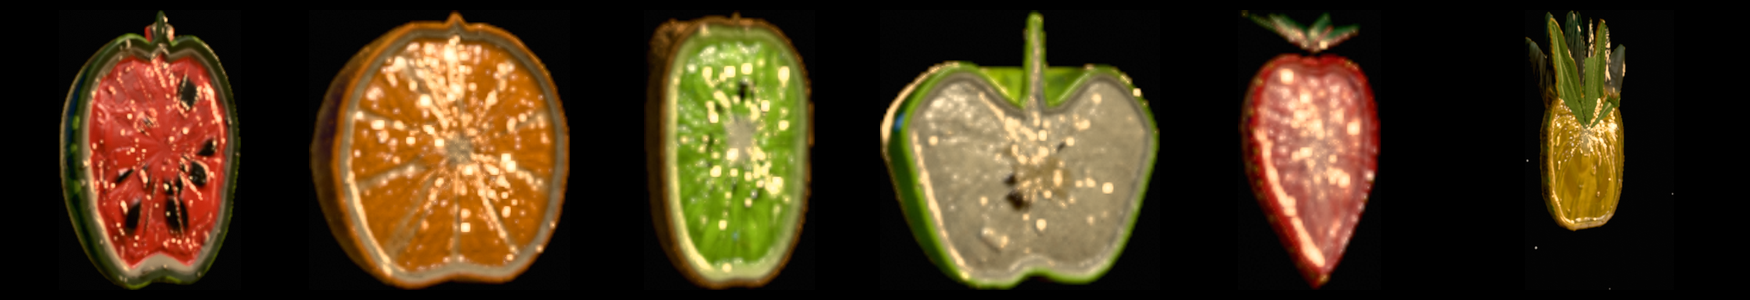
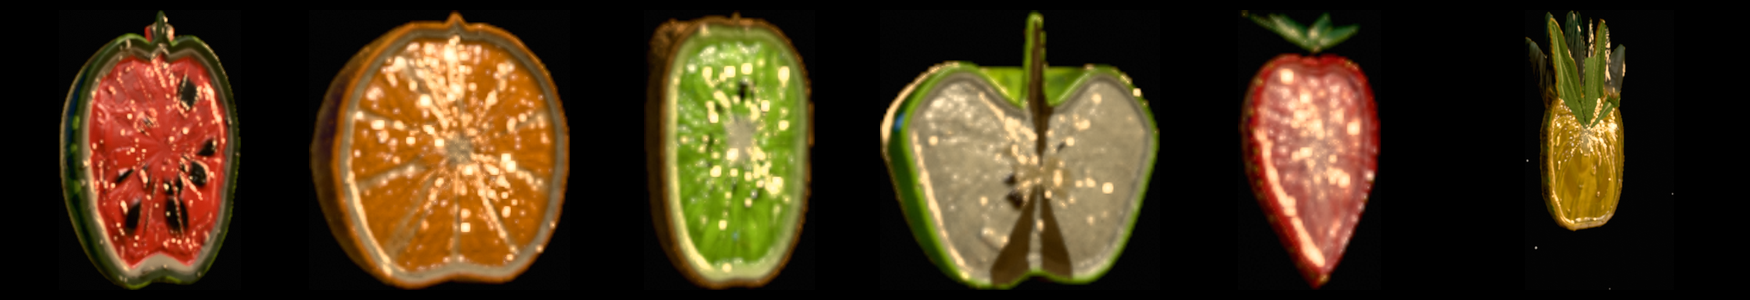
r37g: the stem and calyx cut brown/green, not flesh
Owner: slicing the apple stem showed a green flesh interior. The cutter's
r37b provenance flag already fires for it — profile stems live in the
wood uv band (1.75-1.95), far above the 1.02 threshold — the apple's
flesh material just never consumed the flag. It does now (dry hook + pale
dry-wood albedo, flattened relief, no sss), and the blossom-end's dried
calyx rosette lands brown for free, which a real apple half shows. The
strawberry gets the same consumption for its sepal cross-sections: fresh
calyx green root to tip (the r24 leafFresh law — no brown root, unlike
the pineapple).

Full fruitviews re-render + strips. Audioprobe green 3x, drawprobe green,
pointerprobe green.

Claude-Session: https://claude.ai/code/session_015nASdr9y6NnLpyGJ9ZZJpd

Changed region(s): [[0.5554, 0.6, 0.6171, 0.96], [0.5863, 0.09, 0.6171, 0.54], [0.7097, 0.09, 0.7714, 0.18]]

diff --git a/src/fruit/species.js b/src/fruit/species.js
@@ -3695,7 +3695,14 @@ def({
       const band = ss(0.13, 0.20, cc.rad).mul(ss(0.28, 0.36, cc.rad).oneMinus());
       return blob(c.d, 0.16, 0.30).mul(step(0.25, c.id)).mul(band).mul(cellFade(p)).toVar();
     };
+    // r37g — THE STEM CUT (same mechanism as the pineapple crown cut): a
+    // lengthwise slice runs through the stalk, and the cutter already flags
+    // those cap sectors (profile stems live in the wood uv band 1.75-1.95,
+    // far above the 1.02 provenance threshold). Consume the flag: a cut twig
+    // is pale dry wood, not green flesh.
+    const stemCut = () => step(8.0, uv().x);
     return fleshMaterial(this, {
+      dry: () => stemCut(),
       albedo: (cc, u) => {
         const { ang, rad, q } = cc;
         const gr = fbm2(q.mul(34.0), 3, u.detail).toVar();
@@ -3731,16 +3738,22 @@ def({
         alb.mulAssign(ss(0.800, 0.888, rad).mul(ss(0.888, 0.945, rad).oneMinus())
           .mul(0.40).oneMinus());
         alb.assign(mix(alb, vec3(0.1100, 0.2024, 0.0154).mul(kr), L.skin));
+        // the stalk's interior: pale dry wood with a hint of ring grain
+        const wood = vec3(0.0620, 0.0400, 0.0175)
+          .mul(fbm2(q.mul(22.0), 2, u.detail).mul(0.35).add(0.82)).toVar();
+        alb.assign(mix(alb, wood, stemCut()));
         return alb;
       },
       relief: (cc, u) => {
         const L = apLayers(cc);
         return fbm2(cc.q.mul(34.0), 3, u.detail).mul(0.6)
           .add(ringN(cc.ang, 16.0, cc.rad.mul(3.0).add(5.0)).mul(0.35))
-          .add(L.core.mul(0.5)).add(pips(cc).mul(1.0));
+          .add(L.core.mul(0.5)).add(pips(cc).mul(1.0))
+          .mul(stemCut().mul(0.8).oneMinus());
       },
       rough: (cc, u) => mix(u.rough, float(0.55), apLayers(cc).skin),
-      sssMask: (cc) => apLayers(cc).skin.oneMinus().mul(pips(cc).oneMinus()),
+      sssMask: (cc) => apLayers(cc).skin.oneMinus().mul(pips(cc).oneMinus())
+        .mul(stemCut().oneMinus()),
     }, { rough: 0.34, wet: 0.85, bump: 0.0196, floor: [0.1000, 0.0940, 0.0600] });
   },
 });
@@ -3804,7 +3817,14 @@ def({
   },
 
   makeFleshMaterial() {
+    // r37g — the calyx cut, same mechanism as the pineapple crown / apple
+    // stem: sepal cross-sections arrive flagged by the cutter (the leaf uv
+    // band sits above 1.02) and paint fresh calyx green, dry — a picked
+    // strawberry's calyx is green root to tip (the r24 leafFresh law), so no
+    // brown root here.
+    const calyxCut = () => step(8.0, uv().x);
     return fleshMaterial(this, {
+      dry: () => calyxCut(),
       albedo: (cc, u) => {
         const { ang, rad, q } = cc;
         const fib = ringN(ang, 20.0, rad.mul(3.4).add(4.0)).mul(ss(0.03, 0.28, rad))
@@ -3836,16 +3856,20 @@ def({
         const wl = ss(0.830, 0.890, rad).mul(ss(0.895, 0.940, rad).oneMinus());
         alb.assign(mix(alb, alb.mul(1.15).add(vec3(0.0242, 0.0044, 0.0048).mul(kr)), wl.mul(0.7)));
         alb.assign(mix(alb, vec3(0.1980, 0.0119, 0.0128).mul(kr), L.skin));
+        const sepal = vec3(0.0950, 0.1560, 0.0330)
+          .mul(fbm2(q.mul(18.0), 2, u.detail).mul(0.28).add(0.86)).toVar();
+        alb.assign(mix(alb, sepal, calyxCut()));
         return alb;
       },
       relief: (cc, u) => {
         const L = stLayers(cc);
         return ringN(cc.ang, 20.0, cc.rad.mul(3.4).add(4.0)).mul(0.7)
           .add(fbm2(cc.q.mul(30.0), 2, u.detail).mul(0.4))
-          .sub(L.hollow.mul(1.0));
+          .sub(L.hollow.mul(1.0))
+          .mul(calyxCut().mul(0.85).oneMinus());
       },
       rough: (cc, u) => mix(u.rough, float(0.50), stLayers(cc).hollow),
-      sssMask: (cc) => stLayers(cc).skin.oneMinus(),
+      sssMask: (cc) => stLayers(cc).skin.oneMinus().mul(calyxCut().oneMinus()),
     }, { rough: 0.28, wet: 1.0, bump: 0.0170, floor: [0.1600, 0.0240, 0.0200] });
   },
 });
